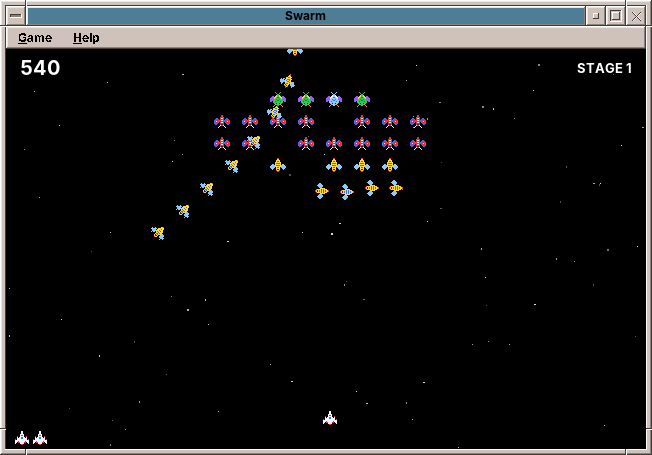
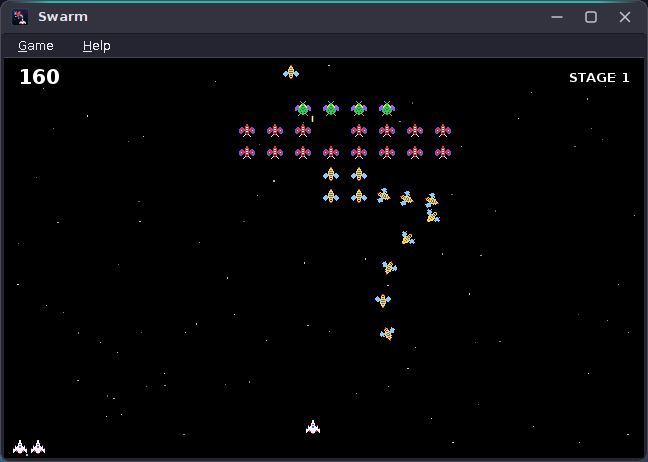
docs(readme): show the Horizon look in the screenshots
The screenshots in docs/screenshots (used by the README and the AppStream
metainfo) showed the classic CDE look. They are replaced by shots in the
Horizon look, Dark scheme; a README without a picture gets one.

Claude-Session: https://claude.ai/code/session_017Pd6NcKy4y87wY8jkALjpZ

diff --git a/README.md b/README.md
@@ -5,6 +5,8 @@
 ![License](https://img.shields.io/badge/license-EUPL--1.2-blue)
 ![Java](https://img.shields.io/badge/Java-25-orange)
 
+![Swarm](docs/screenshots/amade-swarm-game.png)
+
 ## Playing
 
 - **Enter**, **Space** or a **click** (or F2) starts a game.
